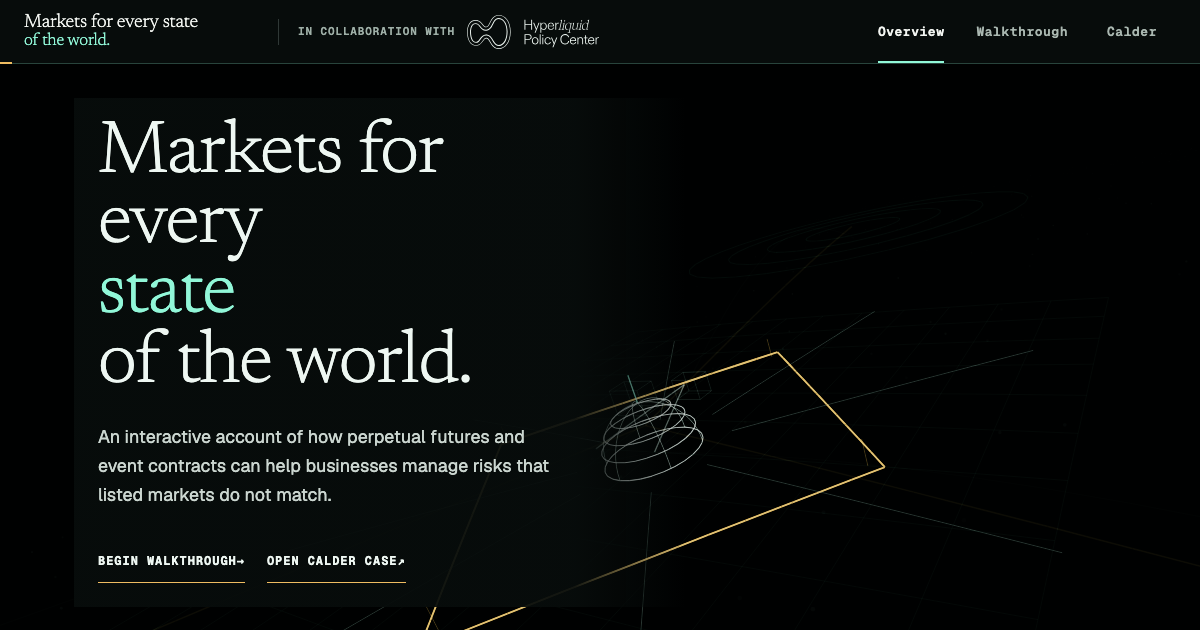
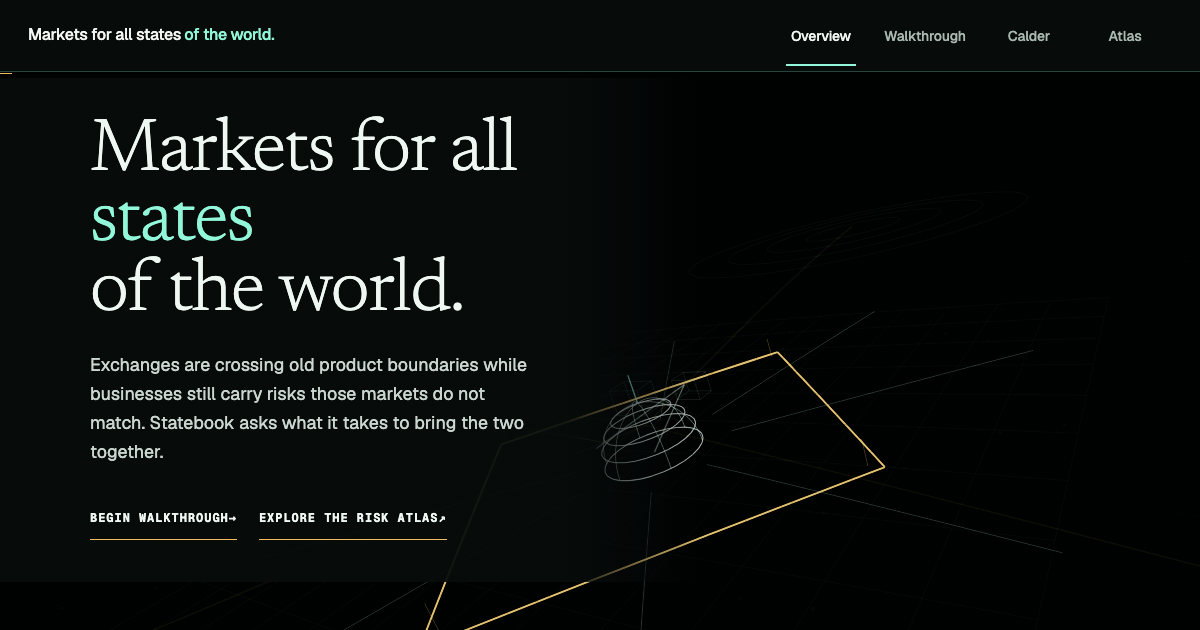
Update Blanket and Statebook references

diff --git a/index.html b/index.html
@@ -510,7 +510,7 @@
         .shelf-toggle::after { content: '→'; transition: transform 200ms var(--ease-out); }
         .books-list.is-open + .shelf-toggle::after { content: '↑'; }
 
-        /* ── Hyperliquid Policy Center type roles ─────────────────────── */
+        /* ── Publication type roles ───────────────────────────────────── */
         .hero h1, .section-heading, .formation-heading, .books-title,
         .now-lede, .hero-deck, .epigraph blockquote, .stage-plate-name {
             font-family: var(--type-display);
@@ -830,10 +830,10 @@
                             <p class="atlas-index">Research publication</p>
                             <h3 class="atlas-title">Statebook</h3>
                             <p class="atlas-sub">Markets for every state of the world.</p>
-                            <p class="atlas-desc">An interactive policy publication developed in collaboration with the <a href="https://hyperliquidpolicy.org" target="_blank" rel="noopener">Hyperliquid Policy Center</a>. It shows how real businesses could use perpetuals and event contracts against risks that ordinary listed markets do not match. The cases and figures are synthetic.</p>
+                            <p class="atlas-desc">An independent, noncommercial interactive publication about how continuous and state-contingent contracts can describe business risks that ordinary listed markets do not match. The cases and figures are synthetic.</p>
                             <figure class="atlas-proof" data-animate="image">
-                                <a href="https://hpc-markets.vercel.app" target="_blank" rel="noopener">
-                                    <img src="assets/statebook.png" alt="Statebook publication showing markets for every state of the world" width="1200" height="630" loading="lazy">
+                                <a href="https://statebook-hpc.vercel.app" target="_blank" rel="noopener">
+                                    <img src="assets/statebook.png" alt="Statebook interactive publication about exchange convergence and business risk" width="1200" height="630" loading="lazy">
                                 </a>
                             </figure>
                             <div class="atlas-note">
@@ -877,18 +877,18 @@
                             </div>
                         </article>
 
-                        <article class="atlas-entry" data-projection="residual" id="bizhedge">
-                            <p class="atlas-index">Prototype</p>
-                            <h3 class="atlas-title">BizHedge</h3>
-                            <p class="atlas-sub">Matching business risks to live event contracts.</p>
-                            <p class="atlas-desc">Describe what could hurt the business in ordinary language. BizHedge searches current Kalshi markets, identifies the strongest legitimate relationship, and makes the cost, payout, and remaining risk legible. If no market genuinely fits, it says so.</p>
+                        <article class="atlas-entry" data-projection="residual" id="blanket">
+                            <p class="atlas-index">Product</p>
+                            <h3 class="atlas-title">Blanket</h3>
+                            <p class="atlas-sub">Small-business risk, mapped to Kalshi.</p>
+                            <p class="atlas-desc">Describe one business risk. Blanket checks current Kalshi markets for a partial offset, shows what it costs, and keeps no-fit results visible. Trading still happens on Kalshi.</p>
                             <figure class="atlas-proof" data-animate="image">
-                                <a href="https://bizhedge.app" target="_blank" rel="noopener">
-                                    <img src="assets/bizhedge.png" alt="BizHedge mapping a business exposure to a live event contract" width="1200" height="630" loading="lazy">
+                                <a href="https://tryblanket.app" target="_blank" rel="noopener">
+                                    <img src="assets/blanket.png" alt="Blanket mapping small-business risk to Kalshi markets" width="1200" height="630" loading="lazy">
                                 </a>
                             </figure>
                             <div class="atlas-actions">
-                                <a class="work-link" href="https://bizhedge.app" target="_blank" rel="noopener">Try BizHedge</a>
+                                <a class="work-link" href="https://tryblanket.app" target="_blank" rel="noopener">Try Blanket</a>
                             </div>
                         </article>
                     </div>
@@ -1416,7 +1416,7 @@
                         ctx.globalAlpha = 1;
                     }
 
-                    // BizHedge — one exposure, one contract, a visible residual.
+                    // Blanket — one exposure, one contract, a visible residual.
                     if (V.focus > .01) {
                         ctx.globalAlpha = V.focus;
                         const fi = 6.6, fk = 6.6;

diff --git a/writing/a-hedge-is-not-a-product/index.html b/writing/a-hedge-is-not-a-product/index.html
@@ -254,7 +254,7 @@
             </article>
             <aside class="art-after">
                 <p class="art-after-kicker">Related</p>
-                <ul><li><a href="https://www.hedgespx.com" target="_blank" rel="noopener">Hedgebook — corporate exposures, matched to live contracts ↗</a></li><li><a href="https://bizhedge.app" target="_blank" rel="noopener">BizHedge — the exposure-first method, live ↗</a></li></ul>
+                <ul><li><a href="https://www.hedgespx.com" target="_blank" rel="noopener">Hedgebook — corporate exposures, matched to live contracts ↗</a></li><li><a href="https://tryblanket.app" target="_blank" rel="noopener">Blanket — small-business risk, mapped to Kalshi ↗</a></li></ul>
             </aside>
             <nav class="shelf" aria-label="All writing"><p class="shelf-label">More writing</p><a class="shelf-item is-here" href="/writing/a-hedge-is-not-a-product/" aria-current="page"><span class="shelf-title">A hedge is not a product</span></a><a class="shelf-item" href="/writing/credit-already-trades-event-risk/"><span class="shelf-title">Credit already trades event risk</span></a><a class="shelf-item" href="/writing/benchmarks-and-institutional-scale/"><span class="shelf-title">Benchmarks are key to scaling prediction markets institutionally</span></a><a class="shelf-item" href="/writing/seeing-like-a-market/"><span class="shelf-title">Seeing Like a Market</span></a><a class="shelf-item" href="/writing/philosophical-precision-is-the-new-assembly/"><span class="shelf-title">In the Age of Claude, Philosophical Precision Is the New Assembly</span></a><a class="shelf-item" href="/writing/welcome-to-post-ct/"><span class="shelf-title">Welcome to Post-CT</span></a></nav>
             <div class="art-cta">

diff --git a/assets/article.css b/assets/article.css
@@ -58,7 +58,7 @@
             .shelf { margin-top: 54px; }
             .art-after { margin-top: 50px; }
         }
-        /* ── Hyperliquid Policy Center type roles ─────────────────────── */
+        /* ── Publication type roles ───────────────────────────────────── */
         .art-title, .arch-title {
             font-family: var(--type-display);
             font-weight: 400;

diff --git a/tools/build_writing.py b/tools/build_writing.py
@@ -39,7 +39,7 @@ ARTICLES = [
         "figures": [],
         "related": [
             ("Hedgebook — corporate exposures, matched to live contracts", "https://www.hedgespx.com", True),
-            ("BizHedge — the exposure-first method, live", "https://bizhedge.app", True),
+            ("Blanket — small-business risk, mapped to Kalshi", "https://tryblanket.app", True),
         ],
     },
     {
@@ -508,7 +508,7 @@ ARTICLE_STYLE = """
             .shelf { margin-top: 54px; }
             .art-after { margin-top: 50px; }
         }
-        /* ── Hyperliquid Policy Center type roles ─────────────────────── */
+        /* ── Publication type roles ───────────────────────────────────── */
         .art-title, .arch-title {
             font-family: var(--type-display);
             font-weight: 400;

diff --git a/tools/DESIGN_REFERENCES.md b/tools/DESIGN_REFERENCES.md
@@ -12,7 +12,7 @@ Applied rules:
 
 1. One 150px rail and one 54px gutter govern every institutional section.
 2. Controls are underlined editorial links; outlined or filled generic CTA rectangles are avoided.
-3. Research work is a four-object catalogue: Statebook and BizHedge are wide features; SLAM and Hedgebook form the paired middle row.
+3. Research work is a four-object catalogue: Statebook and Blanket are wide features; SLAM and Hedgebook form the paired middle row.
 4. Proof comes from the live artifact and concise copy; decorative scale captions are omitted.
 5. Microtype stays readable; labels are supporting structure, never grey decoration.
 6. Motion explains a system once. It does not compete with screenshots or delay the project inventory.
